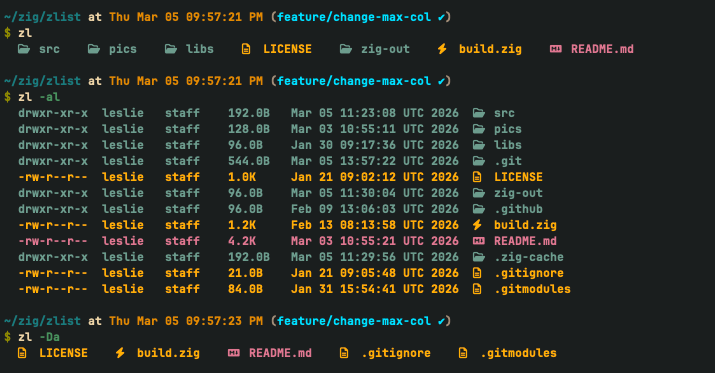
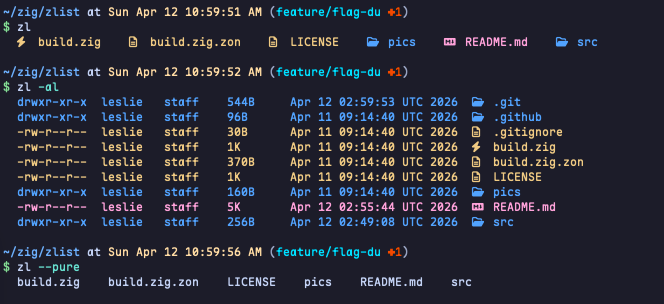
docs: document --du recursive directory size option in README

Pull request: Feature/flag du
Close: #46

add --du recursive directory size option

Changed region(s): [[0.0, 0.2072, 0.8735, 0.977], [0.0, 0.0, 0.9036, 0.1776]]

diff --git a/README.md b/README.md
@@ -17,6 +17,7 @@ Already pretty capable for a learning project:
 *   **Compact grid layout** that stays easy to scan.
 *   **Color and Nerd Font icons** for common file types and languages.
 *   **Readable long view** with permissions, owner, size, and timestamps.
+*   **Optional recursive directory size** in long view and size sorting.
 *   **Multiple sort modes** including name, length, directories first, mtime, and size.
 *   **Recursive listing** with optional depth limits.
 *   **Useful filters** for files, directories, extensions, names, size, and modified time.
@@ -67,6 +68,7 @@ zl [OPTIONS] [PATH]
 | :--- | :--- |
 | `-l`, `--long` | Show detailed view (permissions, size, date, user). |
 | `-a`, `--a` | Show hidden files (starting with `.`). |
+| `--du` | Show recursive directory size in long view and size sorting. This is the sum of file sizes, so it may differ from `du` disk usage. |
 | `-s`, `--sort <mode>` | `name` (A-Z) [Default]<br>`length` (Shortest first)<br>`dir_first` (Dirs first)<br>`mtime` (Newest first)<br>`size` (Largest first) |
 | `-r`, `--recursive` | Recurse into subdirectories. |
 | `-L`, `--level <INT>` | Limit the depth of recursion (use `0` for infinite depth). |
@@ -91,6 +93,16 @@ zl
 **Show all files with details (sorted by filename length):**
 ```bash
 zl -la -s length
+```
+
+**Show recursive directory sizes in long view:**
+```bash
+zl -l --du
+```
+
+**Sort by recursive directory size:**
+```bash
+zl --du -s size -l
 ```
 
 **Dig deep (recursive listing):**
@@ -159,6 +171,7 @@ zl -lg
 *   [x] Smart dynamic grid layout
 *   [x] Summary report (`-R`)
 *   [x] Git status integration (`-g`)
+*   [x] Recursive directory size (`--du`)
 *   [ ] Lib API for embedding in other Zig projects
 *   [ ] Multi-threading for faster `stat` calls
 *   [ ] Custom color/icon configurations (Maybe, if you need it)